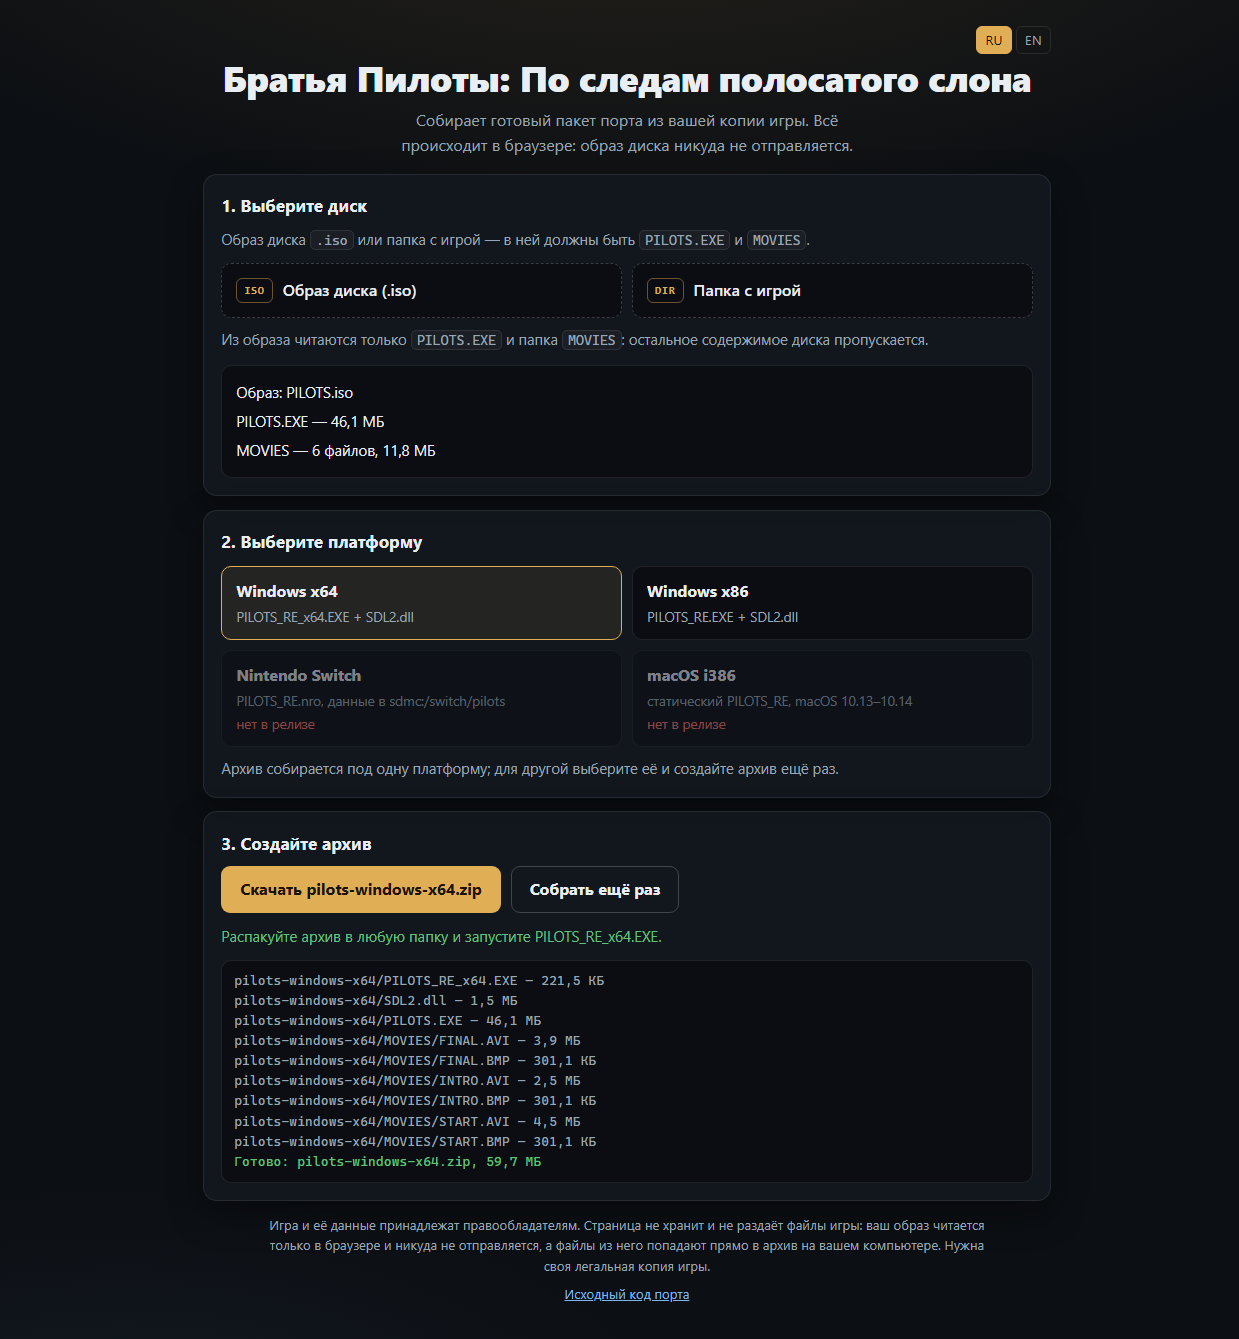
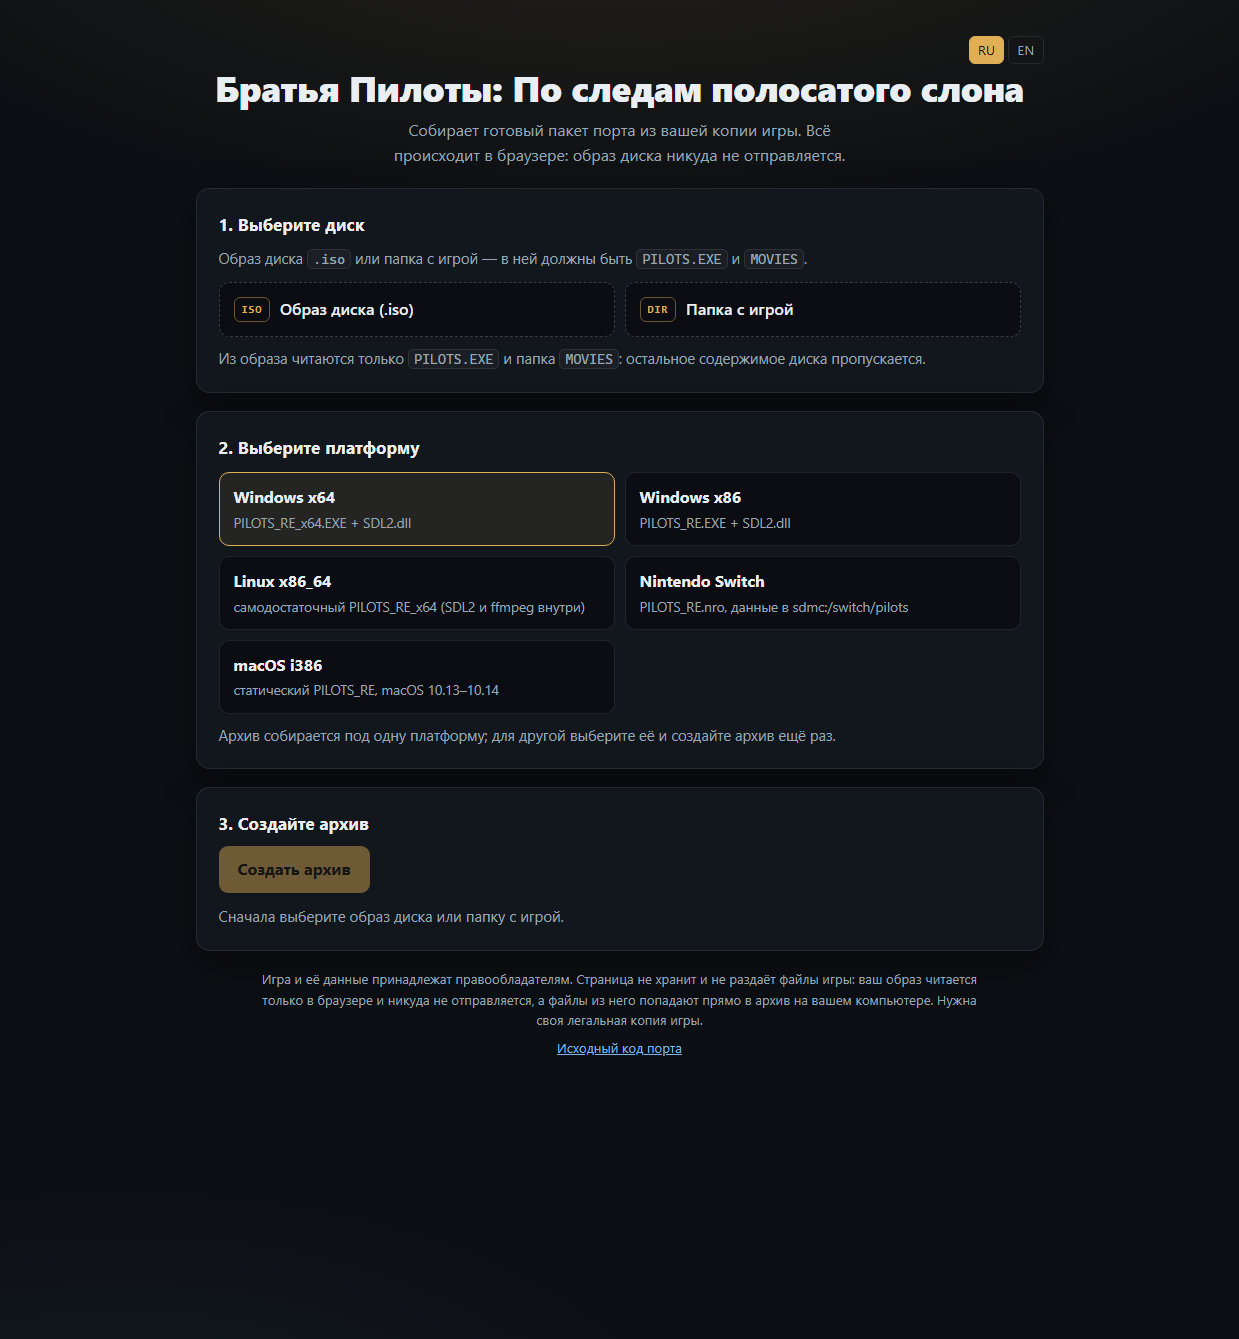
Скриншот страницы с карточкой Linux
Заодно подпись карточки стала короче: «самодостаточный PILOTS_RE_x64
(SDL2 и ffmpeg внутри)» вместо перечисления, которое читалось как список
файлов.

Changed region(s): [[0.1533, 0.1531, 0.7667, 0.5818], [0.1533, 0.6124, 0.7974, 0.9798], [0.1533, 0.0, 0.8281, 0.1225]]

diff --git a/lib/i18n.js b/lib/i18n.js
@@ -35,7 +35,7 @@ const TEXT = {
     'platform.macos-i386': 'macOS i386',
     'note.win-x64': 'PILOTS_RE_x64.EXE + SDL2.dll',
     'note.win-x86': 'PILOTS_RE.EXE + SDL2.dll',
-    'note.linux-x64': 'один файл PILOTS_RE_x64, SDL2 и ffmpeg внутри',
+    'note.linux-x64': 'самодостаточный PILOTS_RE_x64 (SDL2 и ffmpeg внутри)',
     'note.switch': 'PILOTS_RE.nro, данные в sdmc:/switch/pilots',
     'note.macos-i386': 'статический PILOTS_RE, macOS 10.13–10.14',
     'platform.missing': 'нет в релизе',
@@ -128,7 +128,7 @@ const TEXT = {
     'platform.macos-i386': 'macOS i386',
     'note.win-x64': 'PILOTS_RE_x64.EXE + SDL2.dll',
     'note.win-x86': 'PILOTS_RE.EXE + SDL2.dll',
-    'note.linux-x64': 'one PILOTS_RE_x64 file, SDL2 and ffmpeg inside',
+    'note.linux-x64': 'self-contained PILOTS_RE_x64 (SDL2 and ffmpeg inside)',
     'note.switch': 'PILOTS_RE.nro, data in sdmc:/switch/pilots',
     'note.macos-i386': 'static PILOTS_RE, macOS 10.13–10.14',
     'platform.missing': 'not in the release',
